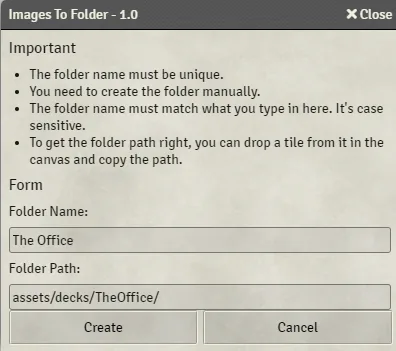
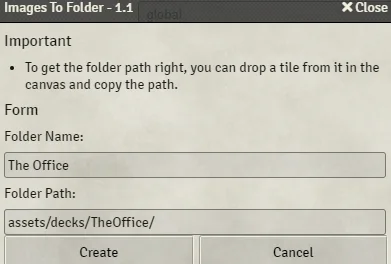
0.4.2

Changed region(s): [[0.0, 0.0, 1.0, 0.5455], [0.0, 0.5758, 1.0, 1.0]]

diff --git a/macros/vehicle_maneuvers.js b/macros/vehicle_maneuvers.js
@@ -1,0 +1,114 @@
+
+/* vehicle_maneuvers
+icon: icons/tools/nautical/steering-wheel.webp
+*/
+
+let tokenD;
+const version = 'v1.0';
+const chatimage = "icons/tools/nautical/steering-wheel.webp";
+let coreRules = false;
+let rules = '@Compendium[swade-core-rules.swade-rules.nB1vsvPTn5jSRG6v]{Chases and Vehicles}';
+if (game.modules.get("swade-core-rules")?.active) { coreRules = true; }
+
+/*
+if (canvas.tokens.controlled[0]===undefined) {
+  ui.notifications.error("Please, select a token."); // No Token is Selected
+} else {
+  tokenD = canvas.tokens.controlled[0];
+  main();
+}
+*/
+
+main();
+  
+async function main(){
+  let maneuversOptions = ['CHANGE POSITION','EVADE', 'FLEE', 'FORCE', 'HOLD STEADY', 'RAM'];
+  let maneuversOptionsLabels = ['CHANGE POSITION - (Action or Free Action)','EVADE - (Action or Free Action)', 'FLEE - (Action)', 'FORCE - (Action)', 'HOLD STEADY - (Free Action)', 'RAM - (Action)'];
+
+  let maneuversOptionsList = ``;
+  for (let i = 0; i < maneuversOptions.length; i++) {
+    maneuversOptionsList += `<option value="${maneuversOptions[i]}">${maneuversOptionsLabels[i]}</option>`;
+  }
+  
+  new Dialog({
+    title: `Vehicle Maneuvers - ${version}`,
+    content: `
+    <h2>Maneuvers</h2>
+    <p>
+      <select id="maneuversOptionsID" type="text" style="width: 100%; box-sizing: border-box;border: none;background-color: #ff0000;color: white; text-align: center;">
+        ${maneuversOptionsList}
+      </select>      
+    </p>
+    <br>
+    `,
+    buttons: {
+      roll: {
+        label: "Do It!",
+        callback: (html) => {
+          showManeuversOptions(html);
+        }
+      }, 
+      cancel: {
+        label: "Cancel"
+      }
+    }
+  }).render(true)
+}
+
+async function showManeuversOptions(html) {
+  let maneuver = html.find("#maneuversOptionsID")[0].value;  
+  let message='';
+  
+  if (coreRules) {
+    message = `<div class="swade-core"><h2><img style="vertical-align:middle" src=${chatimage} width="28" height="28"> ${rules}</h2></div>`;
+  } else {
+    message = `<div><h2><img style="vertical-align:middle" src=${chatimage} width="28" height="28"> Chases and Vehicles</h2><div>`;
+  }
+  
+  message += checkManeuver(maneuver);
+  
+  let chatData = {
+    content: message
+  };  
+  ChatMessage.create(chatData, {});  
+}
+
+function checkManeuver(maneuver) {
+  let message = '';
+  if (maneuver=='CHANGE POSITION') {
+    message+=`<h3><b>${maneuver} - (Action or Free Action)</b><h3>`;
+    message+=`<p>Success allows him to move up or down one Chase Card, and up to two with a raise.</p>`;
+    message+=`<ul><li><b>Action:</b> +2</li>`;
+    message+=`<li><b>Speed Bonus:</b> +1 faster / +2 twice as fast</li>`;
+    message+=`<li><b>Dropping Back:</b> a character may drop “back” one or two Chase Cards without making a maneuvering roll.</li></ul>`;
+  } else if (maneuver=='EVADE') {
+    message+=`<h3><b>${maneuver} - (Action or Free Action)</b><h3>`;
+    message+=`<p>Melee and ranged attacks will suffer a −2 penalty until the start of that vehicle’s next turn. <b>The character and any occupants on his mount or in his vehicle also take the penalty</b></p>`;
+    message+=`<ul><li><b>Action:</b> If the character performs this maneuver as an action, the penalty increases to −4 (in both directions).</li>`;
+  } else if (maneuver=='FLEE') {
+    message+=`<h3><b>${maneuver} - (Action)</b><h3>`;
+    message+=`<p>A character or vehicle may escape the chase if there are at least four Chase Cards between himself and the closest foe. If so, he makes a maneuvering roll at −4 and escapes if successful.</p><p>The penalty is reduced to −2 if there are at least five cards between them, and 0 if there are six or more.</p>`;
+  } else if (maneuver=='FORCE') {
+    message+=`<h3><b>${maneuver} - (Action)</b><h3>`;
+    message+=`<p>The attacker attempts to force a rival away from his vehicle or into an obstacle.</p>`;
+    message+=`<p>To do so, both must be on the same Chase Card and make <b>opposed maneuvering rolls</b>. If the attacker wins, he Bumps his foe.</p>`;
+    message+=`<ul><li><b>Raise:</b> raise is treated as if the defender rolled a Critical Failure on a maneuvering roll</li>`;
+  } else if (maneuver=='HOLD STEADY') {
+    message+=`<h3><b>${maneuver} - (Free Action)</b><h3>`;
+    message+=`<p>They <b>ignore the Unstable Platform and Running penalties</b>, but <b>attacks against the vehicle and all its occupants are made at +2</b> until the beginning of their next turn (this does not stack with Vulnerable).</p>`;
+  } else if (maneuver=='RAM') {
+    message+=`<h3><b>${maneuver} - (Action)</b><h3>`;
+    message+=`<p>An attacker can Ram a defender if they’re on the same Chase Card by making opposed maneuvering rolls. If successful, both participants cause the following damage to the other:</p>`;
+    message+=`<ul><li><b>Action:</b> +2</li>`;
+    message+=`<li><b>Scale:</b> The base damage is based on Scale: Small ([[/r 1d6x]]), Normal ([[/r 2d6x]]), Large ([[/r 3d6x]]), Huge ([[/r 4d6x]]), and Gargantuan ([[/r 5d6x]]).</li>`;
+    message+=`<li><b>Raise:</b> +[[/r 1d6x]] bonus damage for the attacker if he got a raise on his maneuvering roll.</li>`;
+    message+=`<li><b>Toughness:</b> +[[/r 1d6x]] if the vehicle’s Toughness is higher than his foe’s; +2d6 if Toughness is twice as high.</li>`;
+    message+=`<li><b>Speed:</b> +[[/r 1d6]] to both sides if the attacker’s Top Speed is between 60 and 120 mph; +[[/r 2d6x]] if it’s over 120 mph.</li></ul>`;
+  }
+  
+  return message;
+}
+
+
+
+

diff --git a/macros/FeetToSWADE.js b/macros/FeetToSWADE.js
@@ -6,14 +6,66 @@ source:
 icon: icons/tools/navigation/map-chart-tan.webp 
 */
 
-const lightMulti = 5;
-const newDistance = 1;
-const newUnit = 'in';
+const version = 'v1.0';
 
-(async () => {
+main()
+
+async function main() {
+  new Dialog({
+    title: `Grid/Light Modifier - ${version}`,
+    content: `
+    <p style="text-align:center;"><b style="color:red;">WARNING: THIS ACTION CAN'T BE UNDONE!</b></p>
+    <h2>Light Divider</h2>
+    <p>
+      <input type="number" id="lightMulti" value=5 min="1" max="20" style="text-align:center;"/>
+    </p>
+    <p>
+      All lights size in the scene will be divided by this number.
+    </p>
+    
+    <br>
+    <h2>Grid Distance</h2>
+    <p>
+      <input type="number" id="newDistance" value=1 min="1" max="1000" style="text-align:center;"/>
+    </p>
+    <p>
+      The Grid Distance will be set to this number.
+    </p>
+    
+    <br>
+    <h2>Grid Unit Name</h2>
+    <p>
+      <input type="text" id="newUnit" value="in" style="text-align:center;"/>
+    </p>    
+    <p>
+      The grid unit will be set to this.
+    </p>
+
+    <br>
+    `,
+    buttons: {
+      roll: {
+        label: "Update",
+        callback: (html) => {
+          patchScene(html);
+        }
+      }, 
+      cancel: {
+        label: "Cancel"
+      }
+    }
+  }).render(true)
+}
+
+async function patchScene(html) { 
+  let lightMulti =  parseInt( html.find("#lightMulti")[0].value );  
+  let newDistance = parseInt( html.find("#newDistance")[0].value );  
+  let newUnit = html.find("#newUnit")[0].value;    
+  
   await canvas.lighting.updateAll((i) => ({
     bright : Math.round( i.data.bright / lightMulti ) , dim : Math.round( i.data.dim / lightMulti ) 
   }));
   
   await canvas.scene.update({gridDistance: newDistance, gridUnits: newUnit});
-})()
+
+}

diff --git a/macros/ImagesToFolder.js b/macros/ImagesToFolder.js
@@ -2,7 +2,7 @@
 source: 
 icon: icons/sundries/gaming/rune-card.webp
 */
-const version = '1.0';
+const version = '1.1';
 main();
 
 async function main() {
@@ -11,9 +11,6 @@ async function main() {
     content: `
     <h3>Important</h3>
     <ul>
-      <li>The folder name must be unique.</li>
-      <li>You need to create the folder manually.</li>
-      <li>The folder name must match what you type in here. It's case sensitive.</li>
       <li>To get the folder path right, you can drop a tile from it in the canvas and copy the path.</li>
     </ul>
     <h3>Form</h3>
@@ -42,7 +39,10 @@ async function main() {
 
 async function createImageFolder(html) {
   const folderName = html.find("#folderName")[0].value;  
-  const folderPath = html.find("#folderName")[0].value;  
+  const folderPath = html.find("#folderPath")[0].value;  
+
+  const createdFolder = await Folder.createDocuments([{name: folderName, type: "JournalEntry"}]);
+  const folderID = createdFolder[0].id;
 
   let {files} = await FilePicker.browse("data", folderPath);
   
@@ -55,7 +55,7 @@ async function createImageFolder(html) {
     await JournalEntry.create({
       img,
       name: splitPath(img), // fix this to something more creative than naming it the file name :D
-      folder: game.folders.getName(folderName).id
+      folder: folderID
     });
   }
   

diff --git a/macros/dev/FILE PICKER.JS b/macros/dev/FILE PICKER.JS
@@ -1,0 +1,7 @@
+let pickedFolder = await new FilePicker({
+    type: "folder",
+    callback: (path) => {
+       console.log(path)
+    }
+});
+pickedFolder.browse();

diff --git a/CHANGELOG.md b/CHANGELOG.md
@@ -1,3 +1,8 @@
+# 0.4.2
+- Feet To SWADE gui
+- Images To Folder will create the folder for you
+- Vehicle Maneuvers
+
 # 0.4.1
 - fear table fix
 
